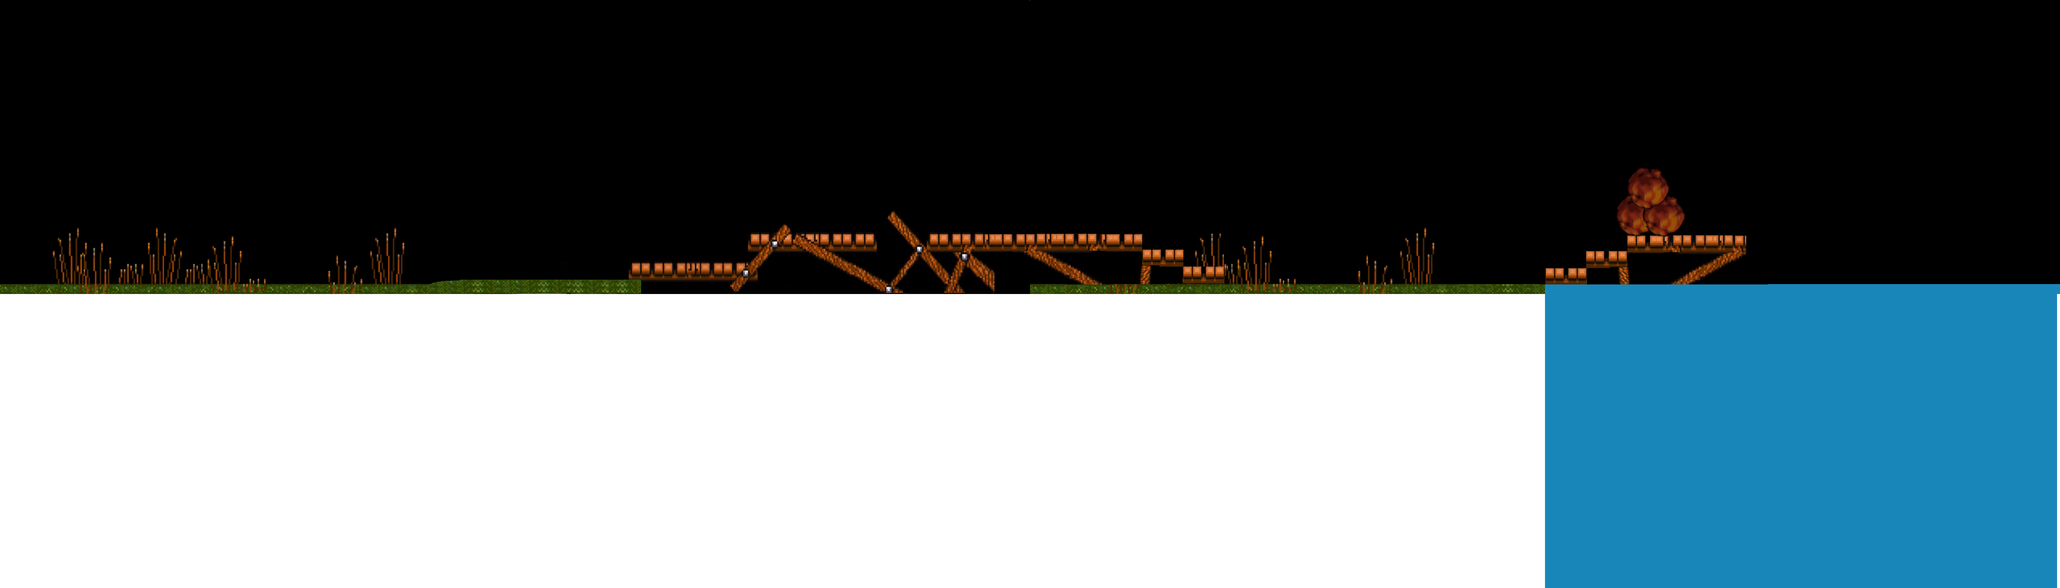
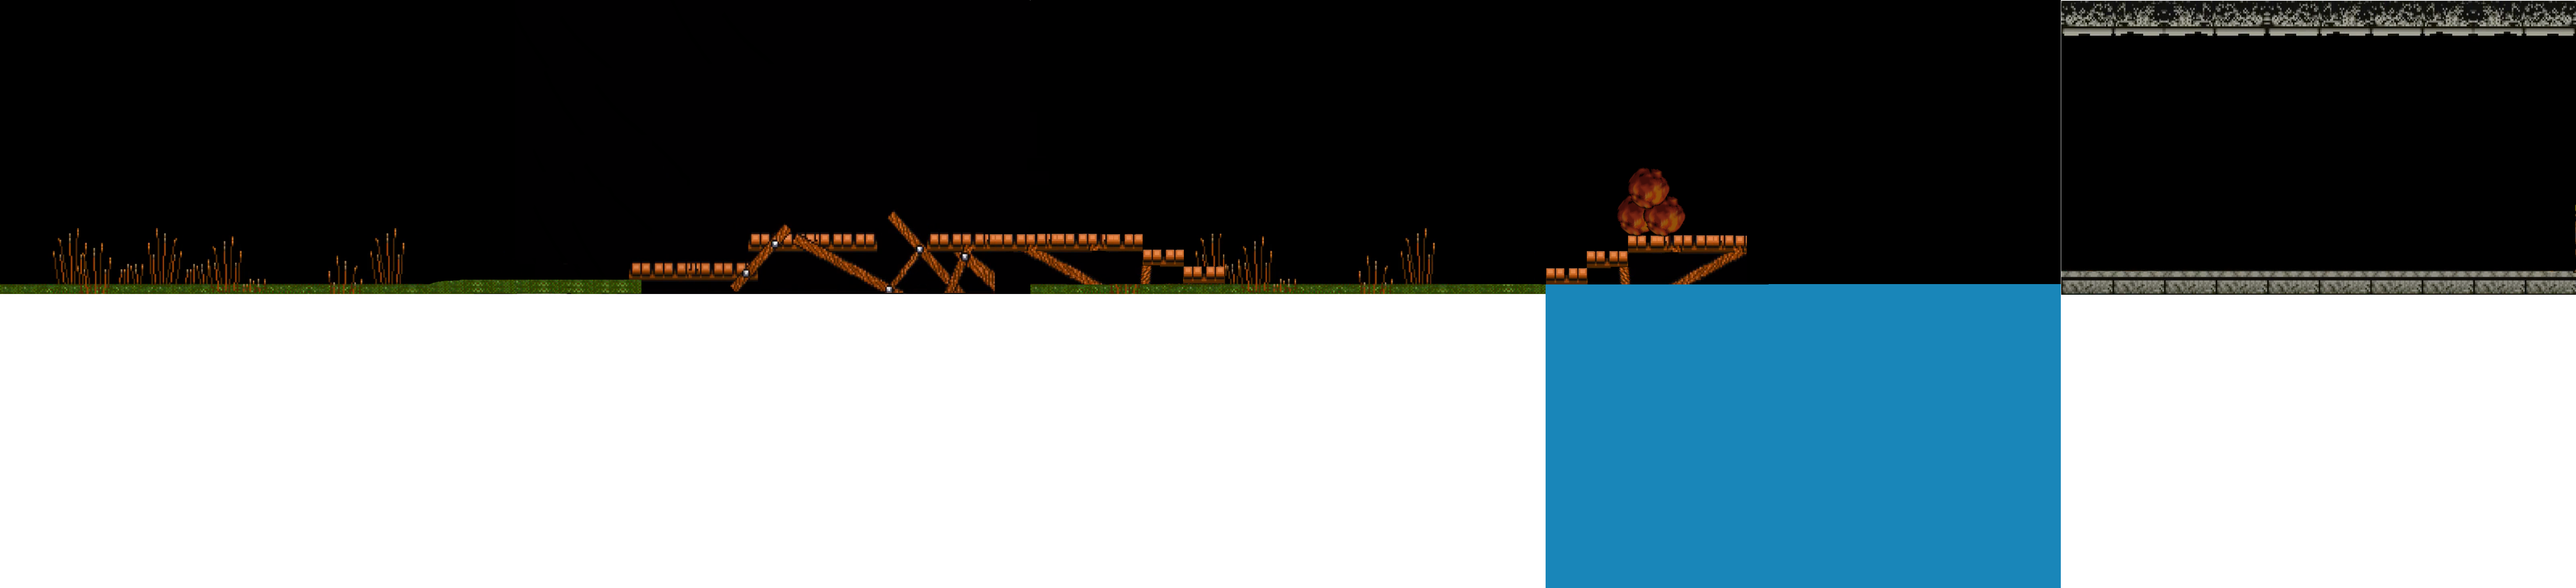
Added jump out of water sequence and placeholder screen 4

Changed region(s): [[0.0, 0.2812, 1.0, 1.0], [0.7812, 0.0, 1.0, 0.0625]]

diff --git a/js/game/GameBoard.js b/js/game/GameBoard.js
@@ -129,19 +129,25 @@ class GameBoard {
      * @param character the character
      * @param direction the direction to move the backdrop
      * @param screenNumber the current screen number
+     * @param outOfWaterCallback callback for when the Barbarian exists the water
      * @returns {Promise<void>} void promise
      */
-    async advanceBackdrop(character, direction, screenNumber) {
+    async advanceBackdrop(character, direction, screenNumber, outOfWaterCallback) {
         if (character.isDead()) {
             return;
         }
         this.setActionsLocked(true);
 
-        await this.moveBackdrop(character, direction, false);
+        if (screenNumber > 0 && this.isWater(screenNumber - 1)) {
+            await outOfWaterCallback();
+            await this.moveBackdrop(character, direction, UP_LABEL);
+        }
+        await this.moveBackdrop(character, direction, undefined);
         if (this.isWater(screenNumber)) {
             // Scroll the water up
-            await this.moveBackdrop(character, direction, true);
+            await this.moveBackdrop(character, direction, DOWN_LABEL);
         }
+
 
         this.setActionsLocked(false);
     }
@@ -282,35 +288,43 @@ class GameBoard {
     }
 
     /* private */
-    async moveBackdrop(character, direction , isVertical) {
-        let pixelsPerSecond = isVertical ? ADVANCE_SCREEN_VERTICAL_PIXELS_PER_SECOND : ADVANCE_SCREEN_PIXELS_PER_SECOND;
-        let screenDimension = isVertical ? SCREEN_HEIGHT : SCREEN_WIDTH;
+    async moveBackdrop(character, direction , verticalDirection) {
+        let pixelsPerSecond = verticalDirection !== undefined ? ADVANCE_SCREEN_VERTICAL_PIXELS_PER_SECOND
+                                                              : ADVANCE_SCREEN_PIXELS_PER_SECOND;
+        let screenDimension = verticalDirection !== undefined ? SCREEN_HEIGHT : SCREEN_WIDTH;
 
         let pixelsPerIteration = pixelsPerSecond / ADVANCE_SCREEN_PIXELS_PER_FRAME;
         let numberOfIterations = screenDimension / pixelsPerIteration;
         let sleepPerIteration = (ADVANCE_SCREEN_DURATION_SECONDS / numberOfIterations) * MILLISECONDS_PER_SECOND;
 
         let x, y, distance, screenOffset = undefined;
-        if (isVertical) {
+        let positionMultiplier = 1;
+        if (verticalDirection === DOWN_LABEL) {
             y = SCREEN_HEIGHT - character.getProperties().getSprite().height() / 2;
-            distance = Math.abs(y - stripPxSuffix(character.getProperties().getSprite().css('bottom')));
+            distance = Math.abs(y - stripPxSuffix(character.getProperties().getSprite().css(CSS_BOTTOM_LABEL)));
+        } else if (verticalDirection === UP_LABEL) {
+            positionMultiplier = -1;
+            y = character.getProperties().getDefaultY(character.getScreenNumber());
+            distance = Math.abs(y - stripPxSuffix(character.getProperties().getSprite().css(CSS_BOTTOM_LABEL)));
         } else {
             x = character.isFacingRight() ? 0 : SCREEN_WIDTH -
                 character.getProperties().getSprite().width();
             distance = SCREEN_WIDTH - character.getProperties().getSprite().width();
         }
         let adjustedPixelsPerSecond = distance / ADVANCE_SCREEN_DURATION_SECONDS;
+
         character.getAnimator().moveElementToPosition(x, y, adjustedPixelsPerSecond);
 
-        let backgroundPosition = isVertical ? 'background-position-y' : 'background-position-x';
+
+        let backgroundPosition = verticalDirection !== undefined ? 'background-position-y' : 'background-position-x';
         let currentPosition = parseInt(stripPxSuffix(this.getBackdrop().css(backgroundPosition)));
 
         for (let i = 0; i < numberOfIterations; i++) {
             let offset = (i + 1) * pixelsPerIteration;
-            let directionCompare = isVertical ? UP_LABEL : RIGHT_LABEL;
+            let directionCompare = verticalDirection !== undefined ? UP_LABEL : RIGHT_LABEL;
             let position = direction === directionCompare ? (currentPosition + offset) : (currentPosition - offset);
 
-            this.getBackdrop().css(backgroundPosition,position + 'px');
+            this.getBackdrop().css(backgroundPosition, (positionMultiplier * position) + 'px');
             await sleep(sleepPerIteration);
         }
     }

diff --git a/js/game/Game.js b/js/game/Game.js
@@ -29,8 +29,9 @@ class Game {
      * @param character the character to perform the aciton for
      * @param action the action to perform
      * @param frame optional starting frame for the action used to resume an action that was stopped
+     * @param uninterruptable set to run thru the animation sequence without interruption
      */
-    performAction(character, action, frame = 0) {
+    performAction(character, action, frame = 0, uninterruptable = false) {
         validateRequiredParams(this.performAction, arguments, 'character', 'action');
 
         character.getAnimator().stopMovement();
@@ -47,7 +48,7 @@ class Game {
             character.getHorizontalDirection(),
             character.getVerticalDirection(),
             character.getProperties().getActionNumberOfTimes(action),
-            frame).then(function(frame) {
+            frame, uninterruptable).then(function(frame) {
                 self.handleActionInterruption(character, action, frame);
         }).catch(function(error) {
             handlePromiseError(error);
@@ -397,12 +398,18 @@ class Game {
     loadScreen(character) {
         let self = this;
         this.gameBoard.hideMonsters(this.getScreenNumber());
+
         this.setScreenNumber(this.getScreenNumber() + (character.isFacingLeft() ? -1 : 1));
+
         if (this.gameBoard.isScreenDefined(this.getScreenNumber())) {
             this.gameBoard.advanceBackdrop(character, character.isFacingLeft() ? RIGHT_LABEL : LEFT_LABEL,
-                this.getScreenNumber())
+                this.getScreenNumber(), async function() {
+                    self.performAction(character, JUMP_LABEL, character.getProperties().getActionNumberOfTimes(JUMP_LABEL), true);
+                })
                 .then(function() {
                     self.startScreenActions();
+
+                    console.log('set default positions');
                 }, error => handlePromiseError(error));
             return false;
         } else {

diff --git a/js/gameConfiguration.js b/js/gameConfiguration.js
@@ -67,12 +67,13 @@ let barbarianCharacter = new CharacterBuilder(undefined, obstacles)
         .withDefaultDirection(RIGHT_LABEL)
         .withDefaultBottom(2, 160)
         .withDefaultBottom(3, 600)
+        .withDefaultBottom(4, 62)
         .withActionNumberOfTimes(ATTACK_LABEL, 1)
         .withDeathSprite($('.barbarian'))
         .withPixelsPerSecond(ATTACK_LABEL, 0)
         .build())
     .withAction(STOP_LABEL)
-    //.withScreenNumber(3)
+    //.withScreenNumber(2)
     .withHorizontalDirection(RIGHT_LABEL)
     .build();
 
@@ -201,7 +202,17 @@ const GAME_BOARD = new GameBoardBuilder()
                 .withPixelsPerSecond(ATTACK_LABEL, 1.2 * DEFAULT_PIXELS_PER_SECOND)
                 .build())
             .withScreenNumber(3).build()])
-    .withWater(3).build();
+    .withWater(3)
+    .withOpponents(4, [barbarianCharacter,
+            new CharacterBuilder(barbarianCharacter, obstacles)
+                .withProperties(new CharacterPropertiesBuilder($('.monster'), MONSTER_CHARACTER_TYPE, 850)
+                    .withFrames(monsterFrames)
+                    .withSound(sounds.getMonsterSound())
+                    .withFramesPerSecond(ATTACK_LABEL, 7.5)
+                    .withDefaultBottom(4, 62)
+                    .build())
+                .build()])
+    .build();
 
 let game = new Game(barbarianCharacter, GAME_BOARD);
 let events = new Events(game);

diff --git a/js/animation/Animator.js b/js/animation/Animator.js
@@ -17,9 +17,10 @@ class Animator {
      * @param vertDirection the requested vertical direction to move the character (up or down)
      * @param numberOfTimes the number of times to perform the animation loop (zero for infinite)
      * @param frameIdx the frame index offset
+     * @param uninterruptable set to run thru the animation without interrupting it
      * @returns {Promise<number>} the frame for the action and direction that the animation stopped on
      */
-    async animate(gameBoard, action, direction, vertDirection, numberOfTimes, frameIdx) {
+    async animate(gameBoard, action, direction, vertDirection, numberOfTimes, frameIdx, uninterruptable) {
         validateRequiredParams(this.animate, arguments, 'gameBoard', 'action', 'direction', 'numberOfTimes',
             'frameIdx');
 
@@ -30,7 +31,7 @@ class Animator {
 
         this.character.setCurrentFrame(action, frameIdx);
 
-        while (!this.isAnimationInterrupted(action, direction, vertDirection, gameBoard) && frameIdx < frames.length) {
+        while (uninterruptable || !this.isAnimationInterrupted(action, direction, vertDirection, gameBoard) && frameIdx < frames.length) {
             let sprite = this.prepareSprite();
             let heightOffset = -1 * this.character.getProperties().getFrameHeightOffset(
                 action, this.character.getHorizontalDirection()) * sprite.height();

diff --git a/js/game/GameBoardBuilder.js b/js/game/GameBoardBuilder.js
@@ -32,6 +32,14 @@ class GameBoardBuilder {
                     left: false,
                     right: true
                 }
+            },
+            4: {
+                opponents: [],
+                water: false,
+                allowedScroll : {
+                    left: false,
+                    right: true
+                }
             }
         };
     }
